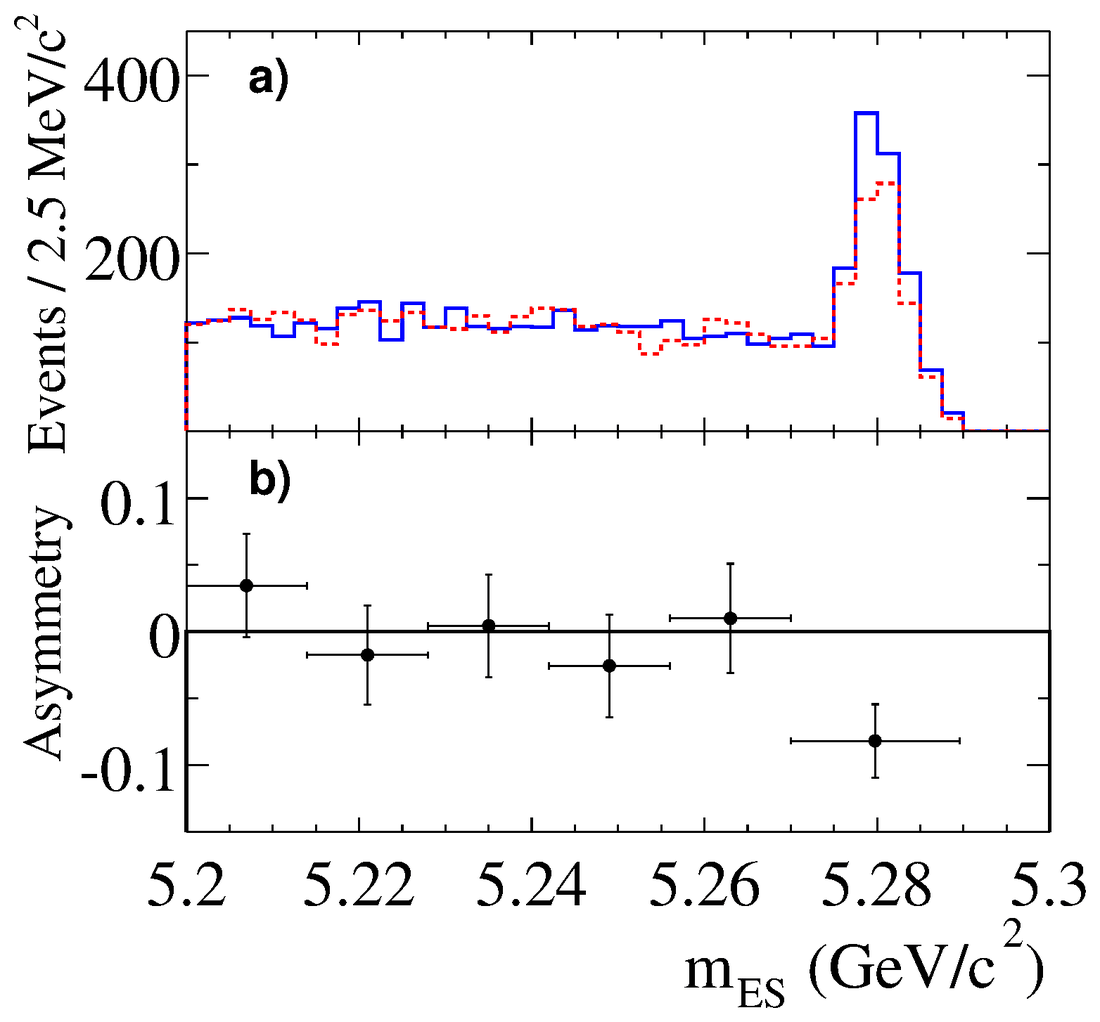
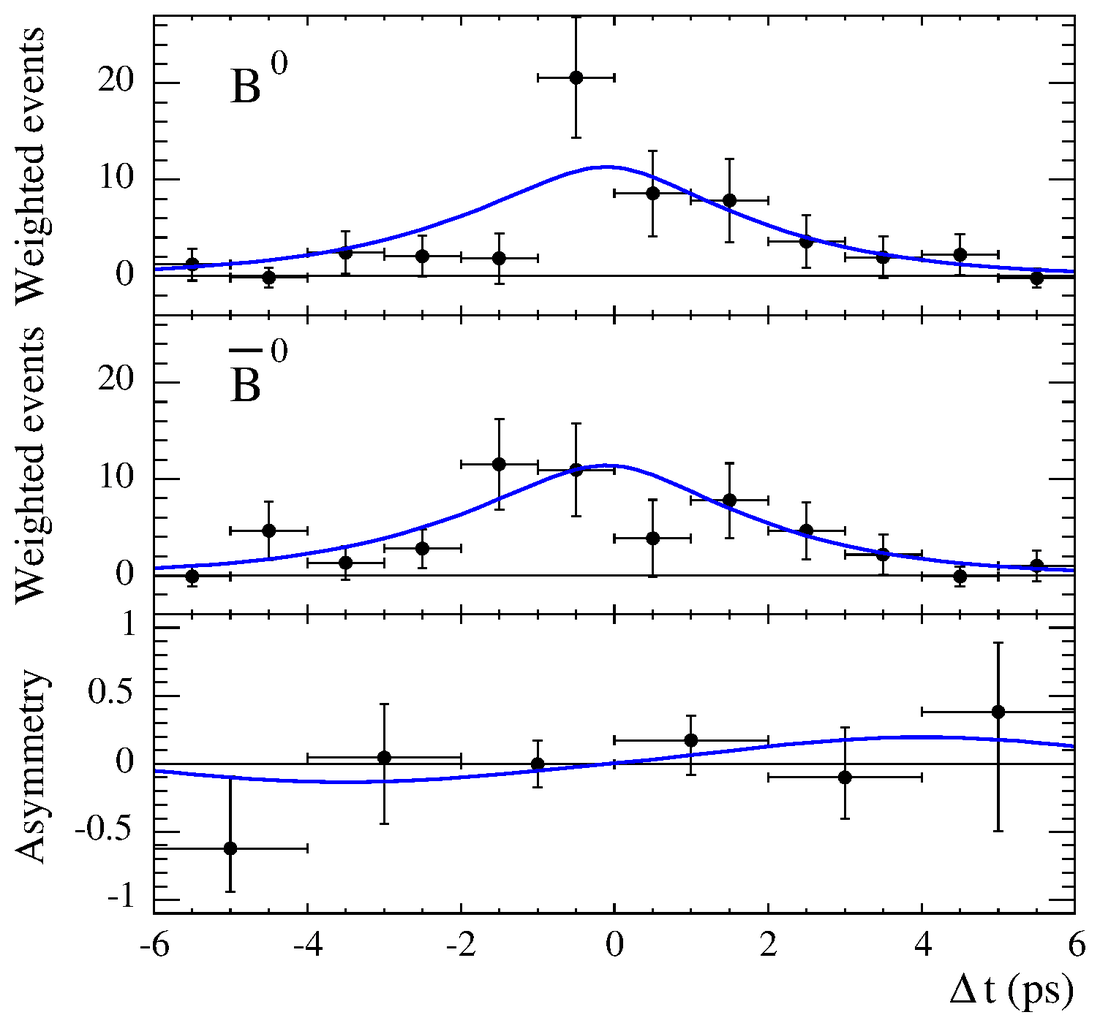
Use the B0 -> KS pi0 time-dependent CP asymmetry as the BaBar figure
Claude-Session: https://claude.ai/code/session_015abDVVdZYvvPoqgRQFasip

Changed region(s): [[0.0, 0.0, 0.9891, 1.0], [0.4327, 0.182, 0.4945, 0.2123]]

diff --git a/_posts/2000-09-01-babar.md b/_posts/2000-09-01-babar.md
@@ -8,7 +8,7 @@ header:
   teaser: /assets/img/projects/babar.png
 ---
 
-{% include figure image_path="/assets/img/projects/babar.png" alt="Observation of direct CP violation in B0 → K+π−: mES distributions and asymmetry." caption="Observation of direct CP violation in B<sup>0</sup> → K<sup>+</sup>π<sup>−</sup>: m<sub>ES</sub> distributions and asymmetry. From <a href='https://arxiv.org/abs/hep-ex/0407057'>Observation of direct CP violation in B<sup>0</sup> → K<sup>+</sup>π<sup>−</sup> decays</a>." %}
+{% include figure image_path="/assets/img/projects/babar.png" alt="Time-dependent CP asymmetry in B0 → KSπ0 decays." caption="Time-dependent CP violation in B<sup>0</sup> → K<sub>S</sub>π<sup>0</sup>: Δt distributions for B<sup>0</sup> and B̄<sup>0</sup> tags and the CP asymmetry. From <a href='https://arxiv.org/abs/hep-ex/0503011'>Measurement of the branching fraction and the CP-violating asymmetry for the decay B<sup>0</sup> → K<sub>S</sub>π<sup>0</sup></a>." %}
 
 From 2000 to 2007 I worked on the BaBar experiment at the SLAC PEP-II B factory: as an
 undergraduate and then PhD student in Rome (with F. Ferroni and G. Martinelli), and as a postdoc at
@@ -30,5 +30,6 @@ Selected papers:
 
 - [Observation of direct CP violation in B<sup>0</sup> → K<sup>+</sup>π<sup>−</sup> decays](https://arxiv.org/abs/hep-ex/0407057), PRL 93 (2004) 131801
 - [Measurements of CP-violating asymmetries in B<sup>0</sup> → K<sub>S</sub>π<sup>0</sup> decays](https://arxiv.org/abs/hep-ex/0403001), PRL 93 (2004) 131805
+- [Measurement of the branching fraction and the CP-violating asymmetry for the decay B<sup>0</sup> → K<sub>S</sub>π<sup>0</sup>](https://arxiv.org/abs/hep-ex/0503011), PRD 71 (2005) 111102
 - [Search for decays of B<sup>0</sup> mesons into pairs of charged leptons](https://arxiv.org/abs/hep-ex/0408096), PRL 94 (2005) 221803
 - [Time-dependent CP asymmetry in B<sup>0</sup> → K<sub>S</sub>π<sup>0</sup>γ](https://arxiv.org/abs/0807.3103), PRD 78 (2008) 071102
